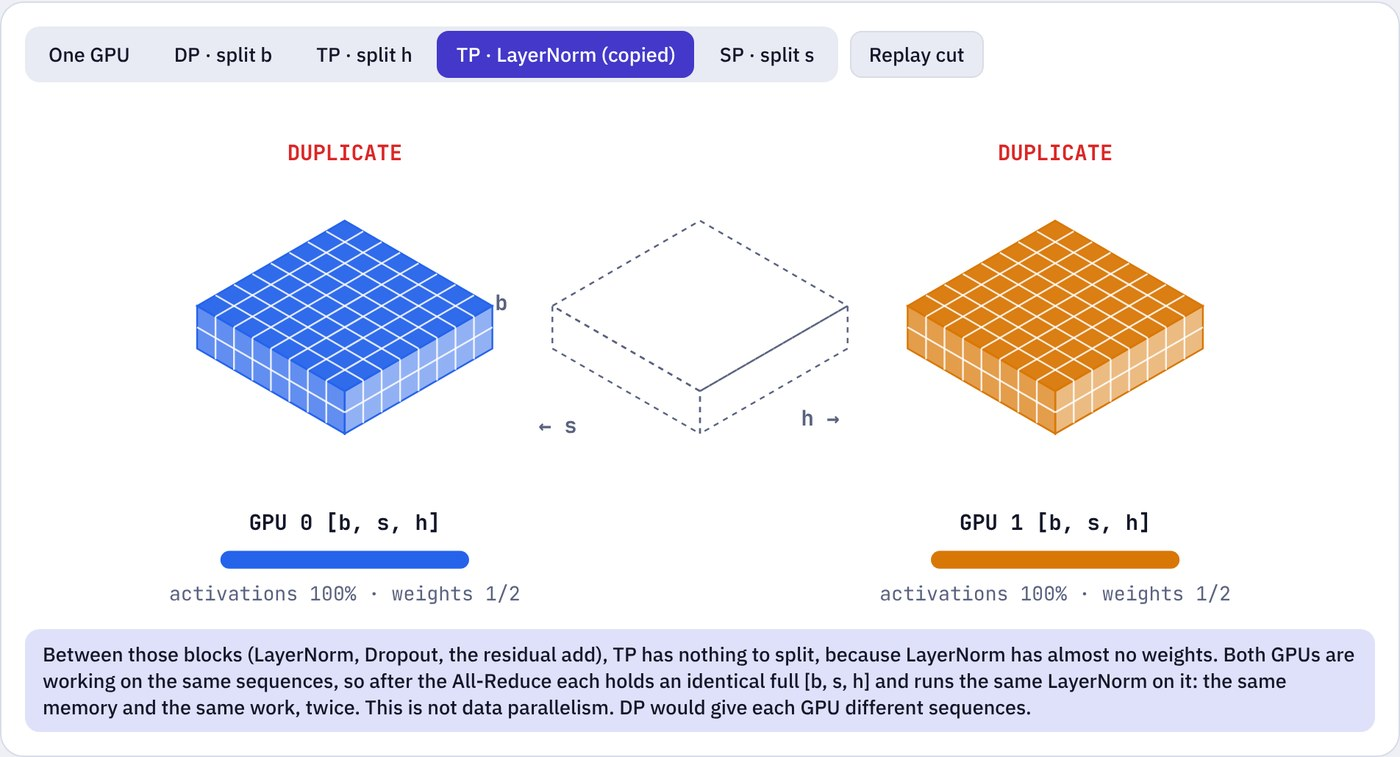
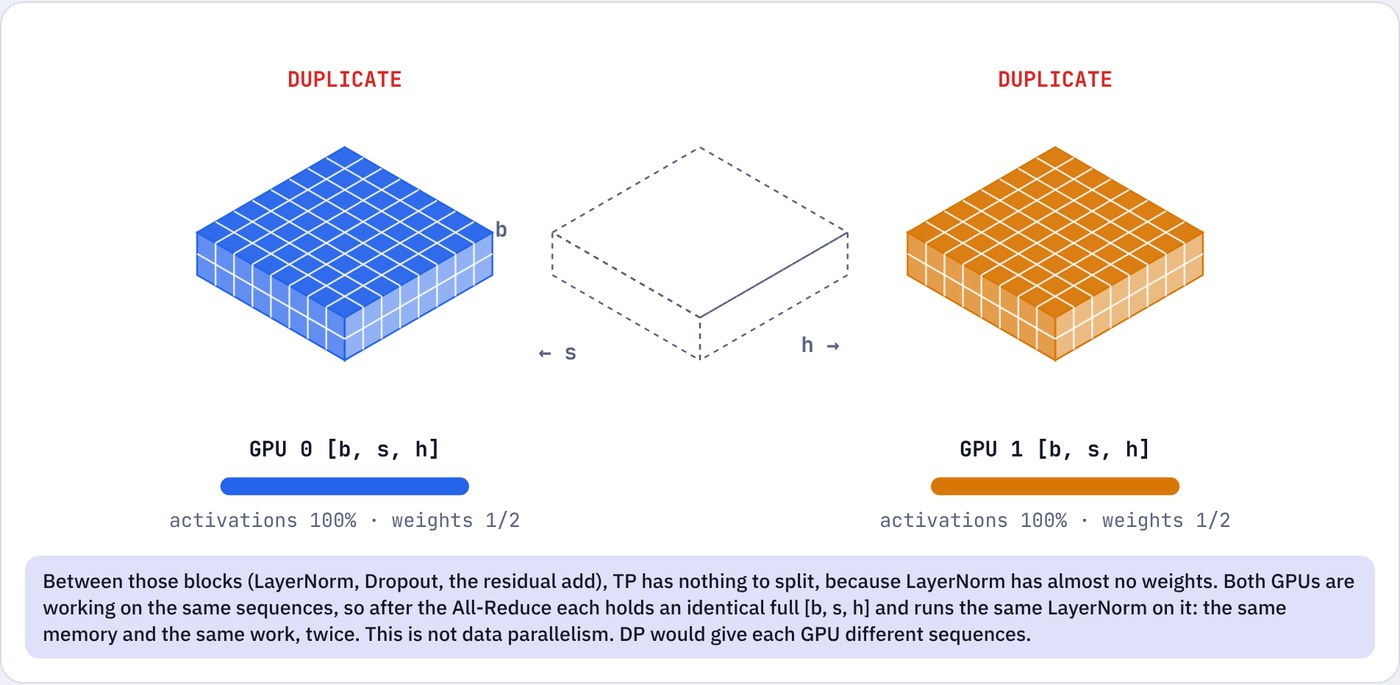
Posts: balance text and figure widths, scale type on wide screens; figures without dead buttons
Text column 44rem (about 75 characters) and figures about 1.4x wider instead
of 2x; root size steps to 20px at 1400px and 21px at 1900px so wide screens
get larger, readable text. LLM inference post figures regenerated with the
interactive page's buttons hidden, since they do nothing in an image.

Claude-Session: https://claude.ai/code/session_01UFQWSUsJMaVbTV8uBDUF1U

diff --git a/assets/style.css b/assets/style.css
@@ -15,8 +15,8 @@
   --accent-2: #0d9488;
   --accent-soft: #e2e3fb;
   --code-bg: #eceef5;
-  --measure: 68ch;
-  --wide: 1240px;
+  --measure: 44rem;   /* text column: ~75 characters, grows with the root size below */
+  --wide: 62rem;      /* figures: about 1.4x the text column, never 2x */
   --font-display: 'Bricolage Grotesque', 'Segoe UI', system-ui, sans-serif;
   --font-sans: 'IBM Plex Sans', -apple-system, 'Segoe UI', Roboto, sans-serif;
   --font-body: 'Source Serif 4', Georgia, 'Times New Roman', serif;
@@ -34,7 +34,7 @@
   .explore a.star small { color: rgba(10, 13, 22, .78); }
 }
 
-html { font-size: 18px; line-height: 1.7; color: var(--text); background: var(--bg); -webkit-font-smoothing: antialiased; }
+html { font-size: 18px; line-height: 1.72; color: var(--text); background: var(--bg); -webkit-font-smoothing: antialiased; }
 body { margin: 0; font-family: var(--font-body); }
 a { color: var(--accent); text-decoration: underline; text-underline-offset: 3px; text-decoration-thickness: 1px; }
 a:hover { text-decoration-thickness: 2px; }
@@ -53,12 +53,12 @@ article > img, article > pre {
   width: min(var(--wide), calc(100% - 2.5rem));
 }
 article > img { margin: 2.5rem auto; border-radius: 14px; box-shadow: 0 1px 2px rgba(15, 20, 40, .06), 0 12px 40px -12px rgba(15, 20, 40, .18); background: var(--surface); }
-article > pre { max-width: 980px; }
+article > pre { max-width: 52rem; }
 
 h1, h2, h3 { font-family: var(--font-display); font-weight: 800; line-height: 1.15; margin: 2.75rem 0 1rem; color: var(--text); letter-spacing: -0.015em; text-wrap: balance; }
-article > h1 { font-size: clamp(2.2rem, 4.6vw, 3.6rem); margin-top: 0.5rem; letter-spacing: -0.025em; grid-column: full; justify-self: center; width: min(1000px, calc(100% - 2.5rem)); text-align: center; }
-h2 { font-size: 1.65rem; }
-h3 { font-size: 1.2rem; color: var(--muted); }
+article > h1 { font-size: clamp(2.3rem, 4.4vw, 3.4rem); margin-top: 0.5rem; letter-spacing: -0.025em; grid-column: full; justify-self: center; width: min(56rem, calc(100% - 2.5rem)); text-align: center; }
+h2 { font-size: 2rem; margin-top: 3.25rem; }
+h3 { font-size: 1.35rem; color: var(--text); opacity: .85; }
 p { margin: 0 0 1.4rem; }
 .byline { font-family: var(--font-sans); font-size: 0.85rem; color: var(--muted); margin: 0 0 2.5rem; text-align: center; letter-spacing: .02em; }
 
@@ -78,6 +78,12 @@ strong { font-weight: 600; }
 hr { border: none; text-align: center; margin: 3rem 0; color: var(--muted); letter-spacing: 0.5em; }
 hr::before { content: '· · ·'; font-family: var(--font-sans); font-size: 1.2rem; }
 .footer-note { font-family: var(--font-sans); font-size: 0.85rem; color: var(--muted); margin-top: 1rem; text-align: center; }
+
+/* scale type with the screen so wide displays are used by bigger, comfortable text, not just wider images */
+@media (min-width: 1400px) { html { font-size: 20px; } }
+@media (min-width: 1900px) { html { font-size: 21px; } }
+article p, article li { font-size: 1.04rem; color: color-mix(in srgb, var(--text) 92%, transparent); }
+article strong { color: var(--text); }
 
 /* ---------- Homepage ---------- */
 .home { font-family: var(--font-sans); }

diff --git a/posts/2026-11-14-how-llm-inference-works-visual-guide/charts/make_screens.py b/posts/2026-11-14-how-llm-inference-works-visual-guide/charts/make_screens.py
@@ -12,7 +12,10 @@ os.makedirs(OUT, exist_ok=True)
 CHROME = {"executable_path": "/usr/bin/google-chrome", "args": ["--no-sandbox"]} if os.path.exists("/usr/bin/google-chrome") else {}
 
 def save(locator, name):
+    pg = locator.page
+    pg.evaluate("document.querySelectorAll('.controls, .chips').forEach(e => e.style.display = 'none')")
     locator.screenshot(path="/tmp/_fig.png")
+    pg.evaluate("document.querySelectorAll('.controls, .chips').forEach(e => e.style.display = '')")
     im = Image.open("/tmp/_fig.png").convert("RGB")
     im = im.resize((1400, int(im.height * 1400 / im.width)), Image.LANCZOS)
     im.save(OUT + name + ".jpg", quality=88, optimize=True)
@@ -23,6 +26,7 @@ with sync_playwright() as p:
     pg = b.new_page(viewport={"width": 1240, "height": 900}, device_scale_factor=2, color_scheme="light")
     pg.emulate_media(reduced_motion="reduce")            # skip entry animations: final frame only
     pg.goto(SRC); pg.wait_for_timeout(1000)
+    # save() hides the buttons and chips for each shot: they do nothing in a static image
     for _ in range(4): pg.click("#ar-next")                # architecture: attention highlighted
     save(pg.locator("#architecture .fig"), "01-architecture")
     save(pg.locator("#attention-explained .fig"), "02-attention")
